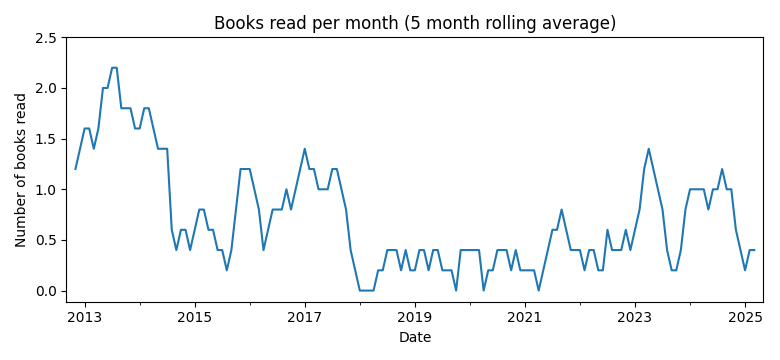
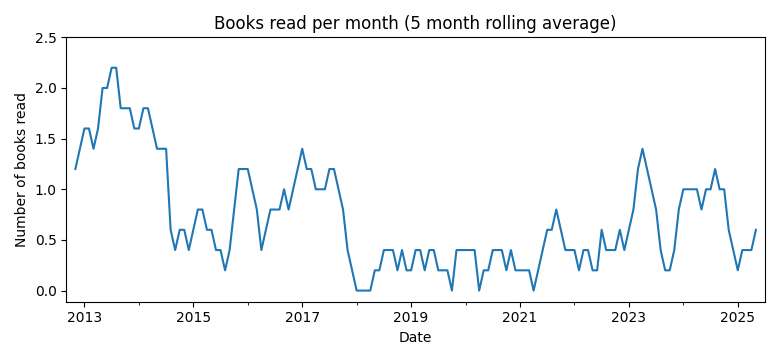
colad

diff --git a/generate_Readme.py b/generate_Readme.py
@@ -17,9 +17,6 @@ now = datetime.datetime.now()
 print("# Literature log")
 print("")
 print("I started this log on October 30th, 2012. I list all books I read.  ")
-print("""The most significant events impacting the number of books I read are
-* Job changes in 2016/01 and 2019/03.
-* The birth of my daughers in 2018/01 and 2019/08""")
 print("")
 
 total_books = 0

diff --git a/README.md b/README.md
@@ -1,18 +1,18 @@
 # Literature log
 
 I started this log on October 30th, 2012. I list all books I read.  
-The most significant events impacting the number of books I read are
-* Job changes in 2016/01 and 2019/03.
-* The birth of my daughers in 2018/01 and 2019/08
 
 ### Statistics
-Total number of books read: 111  
-Books per month: 0.73 (2012/9 to 2025/5)
+Total number of books read: 112  
+Books per month: 0.72 (2012/9 to 2025/7)
 
 ![Books recorded by year](book_recorded.png)
 ![Books read per month](book_read.png)
 
 ### List of books
+*Creatures of light and darkness*, Roger Zelazny  
+Finished: 2025.07.27
+
 *The Almanack of Naval Ravikant*, Eric Jorgenson  
 Finished: 2025.05.05
 
